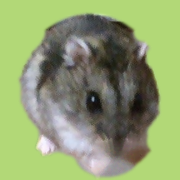
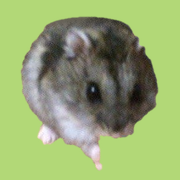
햄스터 키우기: 원본 사진에서 햄스터 누끼 새로 따기 (담배·바인더·책상 배경 제거, 아이콘도 교체)
Claude-Session: https://claude.ai/code/session_0159na47TwGRfqMDKs2R5jMP

diff --git a/hamster/index.html b/hamster/index.html
@@ -964,7 +964,7 @@ function paintArt() {
     const src = hamVariant(hi, v), dst = ham.querySelector('.v-' + v);
     dst.width = src.width; dst.height = src.height; dst.getContext('2d').drawImage(src, 0, 0);
   });
-  hi.src = 'ham.png?v=2';
+  hi.src = 'ham.png?v=3';
 }
 async function boot() {
   applyLang(); paintArt(); layout(); showGame(false);
